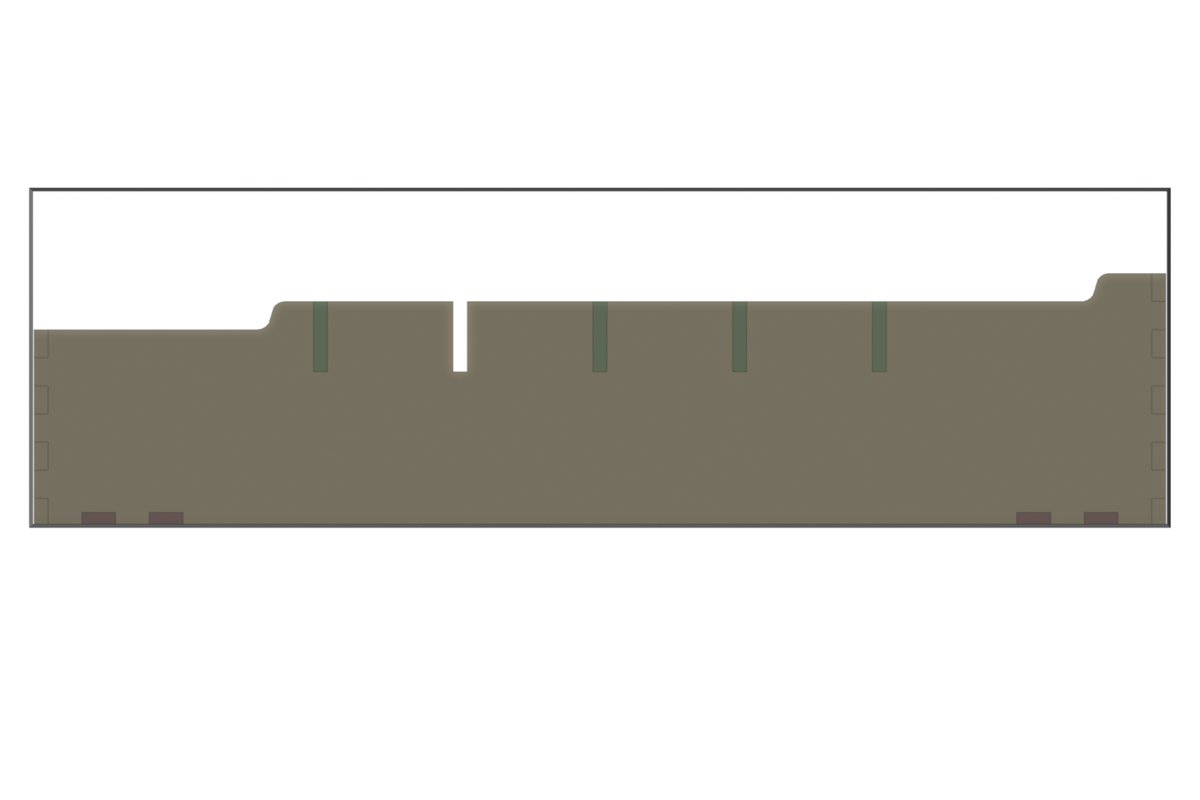
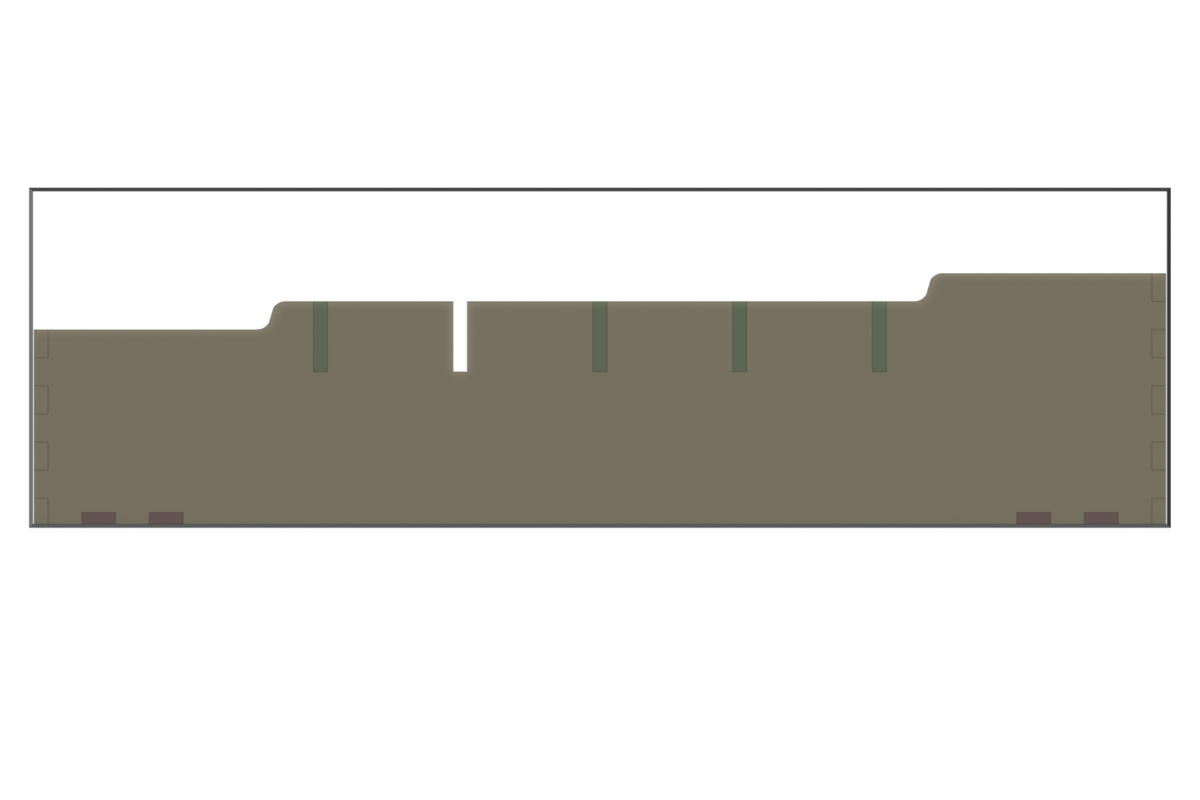
Drawer organizer: front raised bands run to just before the first slot
Plateaus are now derived from the grid: each raised or lowered band runs from
the corner to a step that finishes step_gap short of the nearest slot. Replaces
corner_plateau and back_step_gap with a single step_gap.

Claude-Session: https://claude.ai/code/session_01LZycd3S2pwbAJV8HQ6xUfH

Changed region(s): [[0.7708, 0.3438, 0.925, 0.375]]

diff --git a/projects/drawer-organizer/design.py b/projects/drawer-organizer/design.py
@@ -12,11 +12,12 @@ column dividers in between with the same joint.
 Four flat triangular gussets lie on the drawer floor in the box's corners, tabbed
 through the bottom edges of both walls they touch, to keep the glued box square.
 
-Tops: the front corners stand at full height over the outer inch, drop by an S-shaped
-shoulder to the interior level, and the walls run flat at that level. The back edge of
-the whole box sits lower: the back wall is flat at `back_level`, and the side walls
-and column dividers step down to it through the same shoulder inverted, just past
-the last row slot, so everything behind the last row position is at the back level. Dividers are otherwise flat at the interior level, so every ear is flush
+Tops: the front corners stand at full height from the corner to just before the first
+slot, drop by an S-shaped shoulder to the interior level, and the walls run flat at
+that level across the slotted region. The back edge of the whole box sits lower: the
+back wall is flat at `back_level`, and the side walls and column dividers step down to
+it through the same shoulder inverted, just past the last row slot, so everything
+behind the last row position is at the back level. Dividers are otherwise flat at the interior level, so every ear is flush
 with the edge it passes through. Slot floors sit a fixed engagement below the local
 top, so the back wall's slots are lower than the rest.
 
@@ -59,8 +60,7 @@ class OrganizerConfig:
     notch_depth: float | None = None  # how far a divider's ear engages a slot; default half the interior level
     corner_rise: float = 0.5        # how much higher the front corners stand than the interior level
     back_level: float | None = None  # height of the whole back edge; None for raised back corners like the front
-    back_step_gap: float = 0.5      # flat edge kept between the last row slot and the step down to the back level
-    corner_plateau: float = 1.0     # length of full-height edge at each corner before the shoulder
+    step_gap: float = 0.5           # flat edge kept between a step and the nearest slot
     corner_curve: str = "ogee"      # shoulder shape: 'ogee' (S of two quarter circles) or 'round' (one quarter circle)
     finger_width: float = 0.5       # target finger width at the corners
     edge_margin: float = 0.5        # solid material kept between a grid notch and a corner joint
@@ -123,21 +123,26 @@ class Design:
         self.divider_slot_depth = self.level - self.slot_floor
         self.bottom_notch_depth = self.slot_floor            # a divider's bottom notch reaches this high
         self.back_bottom_notch_depth = self.back_slot_floor  # at a column divider's back end
-        # Slots must miss the gussets and sit past the corner shoulder (which is
-        # measured from the wall's end, so take off the neighbouring wall's thickness).
+        # Slots must miss the gussets and leave room for a step plus its gap between
+        # the corner joint and the first slot.
         shoulder = max(cfg.corner_rise, abs(self.back_step))
-        clear = max(cfg.edge_margin, cfg.gusset_leg,
-                    cfg.corner_plateau + shoulder + cfg.edge_margin - t)
+        clear = max(cfg.edge_margin, cfg.gusset_leg, shoulder + cfg.step_gap)
         self.column_pitch = snap_pitch(self.width, cfg.column_pitch, t)
         self.row_pitch = snap_pitch(self.depth, cfg.row_pitch, t)
         self.column_grid = grid(self.width, self.column_pitch, t, clear)
         self.row_grid = grid(self.depth, self.row_pitch, t, clear)
         self.gusset_tab_spans = even_tab_spans(cfg.gusset_leg, cfg.gusset_tabs) if cfg.gusset_leg > 0 else []
-        # Length of the lowered band at the back of the side walls and column dividers:
-        # from just past the last row slot to the back of the box.
-        last_slot_end = max(self.row_grid.values()) + t / 2 if self.row_grid else 0.0
-        self.back_plateau = (self.depth - (last_slot_end + cfg.back_step_gap + abs(self.back_step))
-                             if cfg.back_level is not None else cfg.corner_plateau)
+        # Plateau lengths: each raised or lowered band runs from the wall's end to a
+        # step that finishes `step_gap` short of the nearest slot.
+        gap, rise = cfg.step_gap, cfg.corner_rise
+        col_first = min(self.column_grid.values()) - t / 2
+        col_last = max(self.column_grid.values()) + t / 2
+        row_first = min(self.row_grid.values()) - t / 2
+        row_last = max(self.row_grid.values()) + t / 2
+        self.front_wall_plateau = (col_first - gap - rise, self.width - col_last - gap - rise)
+        self.side_front_plateau = row_first - gap - rise
+        back_step = abs(self.back_step) if cfg.back_level is not None else rise
+        self.back_plateau = self.depth - row_last - gap - back_step
         self.finger_count = odd_finger_count(cfg.height, cfg.finger_width)
         self._validate()
         self.panels = self._build_panels()
@@ -165,20 +170,15 @@ class Design:
         cfg = self.cfg
         if not (0 <= cfg.corner_rise < self.height):
             raise ValueError("corner_rise must be between 0 and the wall height")
-        if cfg.corner_plateau < cfg.thickness:
-            raise ValueError("corner_plateau must cover at least the corner joint (one thickness)")
         if not (0 < self.slot_floor < self.level):
             raise ValueError("notch_depth must leave some wall below the slots")
         if cfg.back_level is not None and not (0 < self.back_slot_floor < self.back_level <= self.height):
             raise ValueError("back_level must be between the slot engagement and the wall height")
-        if cfg.back_level is not None and self.back_plateau < cfg.thickness:
-            raise ValueError("the step down to the back level would run into the back corner joint")
+        for plateau in (*self.front_wall_plateau, self.side_front_plateau, self.back_plateau):
+            if plateau < cfg.thickness:
+                raise ValueError("a step would run into a corner joint; increase edge_margin or reduce step_gap")
         if not self.column_grid or not self.row_grid:
             raise ValueError("grid pitch leaves no room for any notch")
-        shoulder_end = cfg.corner_plateau + max(cfg.corner_rise, abs(self.back_step))
-        for g, name in ((self.column_grid, "column"), (self.row_grid, "row")):
-            if min(g.values()) - cfg.thickness / 2 <= shoulder_end:
-                raise ValueError(f"the corner shoulder runs into the first {name} slot")
         if cfg.gusset_leg < 0 or (cfg.gusset_leg > 0 and cfg.gusset_tabs < 1):
             raise ValueError("gusset_leg must be 0 or positive with at least one tab")
         if cfg.gusset_leg > 0 and 2 * cfg.thickness + 2 * cfg.gusset_leg > min(self.width, self.depth):
@@ -207,24 +207,24 @@ class Design:
     # --- panels -------------------------------------------------------------
 
     def _top(self, length: float, start_step: float, end_step: float,
-             end_plateau: float | None = None) -> SteppedEnds | None:
-        """Top-edge profile with the given steps at each end, or None if both are zero."""
-        cfg = self.cfg
+             start_plateau: float, end_plateau: float) -> SteppedEnds | None:
+        """Top-edge profile with the given steps and plateaus, or None if both steps are zero."""
         if start_step == 0 and end_step == 0:
             return None
-        return SteppedEnds(length, self.level, start_step, end_step, cfg.corner_plateau,
-                           cfg.corner_curve, end_plateau=end_plateau)
+        return SteppedEnds(length, self.level, start_step, end_step, start_plateau,
+                           self.cfg.corner_curve, end_plateau=end_plateau)
 
     def _front_wall_top(self, length: float) -> SteppedEnds | None:
-        return self._top(length, self.cfg.corner_rise, self.cfg.corner_rise)
+        rise = self.cfg.corner_rise
+        return self._top(length, rise, rise, *self.front_wall_plateau)
 
     def _side_wall_top(self, length: float) -> SteppedEnds | None:
-        if self.cfg.back_level is None:
-            return self._top(length, self.cfg.corner_rise, self.cfg.corner_rise)
-        return self._top(length, self.cfg.corner_rise, self.back_step, end_plateau=self.back_plateau)
+        rise = self.cfg.corner_rise
+        back = rise if self.cfg.back_level is None else self.back_step
+        return self._top(length, rise, back, self.side_front_plateau, self.back_plateau)
 
     def _column_top(self, length: float) -> SteppedEnds | None:
-        return self._top(length, 0.0, self.back_step, end_plateau=self.back_plateau)
+        return self._top(length, 0.0, self.back_step, 0.0, self.back_plateau)
 
     def _build_panels(self) -> list[Panel]:
         cfg = self.cfg
@@ -329,10 +329,11 @@ class Design:
             f"a cell n steps wide is {fmt(self.column_pitch)}n - {fmt(cfg.thickness)}",
             f"Row grid:    {len(self.row_grid)} positions at {fmt(self.row_pitch)} in pitch "
             f"(y = {fmt(min(self.row_grid.values()))} .. {fmt(max(self.row_grid.values()))})",
-            f"Tops: interior level {fmt(self.level)} in; front corners {fmt(cfg.corner_rise)} in higher over the outer "
-            f"{fmt(cfg.corner_plateau)} in with a {cfg.corner_curve} shoulder"
+            f"Tops: interior level {fmt(self.level)} in; front corners {fmt(cfg.corner_rise)} in higher, "
+            f"stepping down ({cfg.corner_curve}) {fmt(cfg.step_gap)} in before the first slot "
+            f"(raised bands {fmt(self.front_wall_plateau[0])} in on the front wall, {fmt(self.side_front_plateau)} in on the sides)"
             + (f"; back edge at {fmt(self.back_level)} in over the last {fmt(self.back_plateau)} in, "
-               f"stepping down {fmt(cfg.back_step_gap)} in past the last row slot"
+               f"stepping down {fmt(cfg.step_gap)} in past the last row slot"
                if cfg.back_level is not None else "; back corners like the front"),
             f"Egg-crate slots: {fmt(self.engagement)} in of ear engagement everywhere; floors at "
             f"{fmt(self.slot_floor)} in (back wall {fmt(self.back_slot_floor)} in) above the drawer bottom",

diff --git a/projects/drawer-organizer/test_design.py b/projects/drawer-organizer/test_design.py
@@ -42,12 +42,16 @@ def test_tops_front_corners_flat_interior_dropped_back(design):
     walls = {p.name: p for p in design.panels if p.kind == "wall"}
     W, D = design.width, design.depth
     f = walls["wall_front"].outline.top_profile
-    for x in (0.0, 0.5, 1.0, W - 1.0, W - 0.5, W):
-        assert f(x) == H                                       # front corners full height
-    assert f(1.25) == pytest.approx(level + 0.25)              # middle of the S
-    assert f(1.1) > H - 0.05 and f(1.4) < level + 0.05         # eases out of both levels
-    for x in (2.0, W / 2, W - 2.0):
-        assert f(x) == level
+    col_first = min(design.column_grid.values()) - 0.125
+    plateau = col_first - 0.5 - 0.5                            # step finishes one gap before the first slot
+    assert design.front_wall_plateau == (pytest.approx(plateau), pytest.approx(plateau))
+    assert plateau > 2.0
+    for x in (0.0, 1.0, plateau, W - plateau, W - 1.0, W):
+        assert f(x) == H                                       # raised bands full height
+    assert f(plateau + 0.25) == pytest.approx(level + 0.25)    # middle of the S
+    assert f(plateau + 0.1) > H - 0.05 and f(plateau + 0.4) < level + 0.05
+    for x in (col_first - 0.5, col_first, W / 2, W - col_first):
+        assert f(x) == pytest.approx(level)                    # flat across the slotted region
     b = walls["wall_back"].outline.top_profile
     for x in (0.0, 1.0, W / 2, W - 1.0, W):
         assert b(x) == back                                    # back wall flat at the back level
@@ -55,10 +59,14 @@ def test_tops_front_corners_flat_interior_dropped_back(design):
     step_start = last_slot_end + 0.5                           # the step begins one gap past the last slot
     assert design.back_plateau == pytest.approx(D - step_start - 0.5)
     assert design.back_plateau > 3.5                           # the lowered band is most of the back quarter
+    row_first = min(design.row_grid.values()) - 0.125
+    front_plateau = row_first - 0.5 - 0.5
+    assert design.side_front_plateau == pytest.approx(front_plateau)
     for name in ("wall_left", "wall_right"):
         g = walls[name].outline.top_profile
-        assert g(0) == H and g(1.0) == H                       # front end raised
-        assert g(2.0) == level and g(D / 2) == level           # flat interior
+        assert g(0) == H and g(front_plateau) == H             # front band raised up to the step
+        assert g(front_plateau + 0.25) == pytest.approx(level + 0.25)
+        assert g(row_first - 0.5) == pytest.approx(level) and g(D / 2) == level   # flat interior
         assert g(last_slot_end) == level and g(step_start) == pytest.approx(level)
         assert g(step_start + 0.25) == pytest.approx(level - 0.25)   # inverted S, middle
         assert g(step_start + 0.1) > level - 0.05 and g(step_start + 0.4) < back + 0.05
@@ -118,11 +126,14 @@ def test_symmetric_box_when_back_level_is_none():
     assert by_name["column_1"].outline.top_profile is None
 
 
-def test_first_slot_clears_the_shoulder_for_any_plateau():
-    for plateau in (0.25, 1.0, 2.5, 4.0):
-        d = Design(OrganizerConfig(corner_plateau=plateau, gusset_leg=0, back_level=3.5))
-        for g in (d.column_grid, d.row_grid):
-            assert min(g.values()) - 0.125 > plateau + 0.5
+def test_steps_finish_one_gap_before_the_slots_for_any_gap():
+    for gap in (0.25, 0.5, 1.5):
+        d = Design(OrganizerConfig(step_gap=gap, gusset_leg=0, back_level=3.5, columns=[0]))
+        t = 0.125
+        assert d.front_wall_plateau[0] + 0.5 + gap == pytest.approx(min(d.column_grid.values()) - t)
+        assert d.side_front_plateau + 0.5 + gap == pytest.approx(min(d.row_grid.values()) - t)
+        assert d.depth - d.back_plateau - 0.5 - gap == pytest.approx(max(d.row_grid.values()) + t)
+        assert min(d.front_wall_plateau[0], d.side_front_plateau, d.back_plateau) >= 0.25
 
 
 def test_panel_sizes(design):
@@ -173,9 +184,10 @@ def test_gussets(design):
 def test_no_gussets_when_leg_is_zero():
     d = Design(OrganizerConfig(gusset_leg=0))
     assert not any(p.kind == "gusset" for p in d.panels)
-    assert len(d.column_grid) == 17   # the corner shoulders, not the gussets, now set the clearance
+    assert len(d.column_grid) == 19
     first = min(d.column_grid.values()) - 0.125
-    assert first >= 1.0 + 0.5 + 0.5    # plateau + shoulder + edge margin
+    assert first >= 0.25 + 0.5 + 0.5   # room for a corner joint, a step and a gap before the first slot
+    assert d.front_wall_plateau[0] >= 0.25
 
 
 def test_cells_add_up(design):

diff --git a/projects/drawer-organizer/config.py b/projects/drawer-organizer/config.py
@@ -21,10 +21,9 @@ CONFIG = OrganizerConfig(
     row_pitch=2.5,
     notch_depth=1.25,
     corner_rise=0.5,
-    corner_plateau=1.0,
     corner_curve="ogee",
     back_level=3.5,
-    back_step_gap=0.5,
+    step_gap=0.5,
     gusset_leg=3.0,
     gusset_tabs=2,
     # Column dividers at these grid positions (left to right): three equal columns of

diff --git a/projects/drawer-organizer/README.md b/projects/drawer-organizer/README.md
@@ -41,8 +41,9 @@ can change later.
   with the same joint. A row divider can span several columns; it then crosses the
   column dividers in between with a bottom notch at each crossing.
 - **Raised front corners, dropped back edge.** The front wall stands at full height
-  over the outer inch at both ends, then drops half an inch through an S-shaped
-  shoulder to the interior level, and runs flat at that level. The S is two quarter
+  from each corner to half an inch before the first slot, then drops half an inch
+  through an S-shaped shoulder to the interior level, and runs flat at that level
+  across the slotted region. The side walls do the same at their front ends. The S is two quarter
   circles of quarter-inch radius, convex then concave, so it leaves one level and
   arrives on the other smoothly. The back edge of the whole box sits half an inch
   below the interior level: the back wall is flat at that height for its full
@@ -75,8 +76,7 @@ All in `config.py`, all in inches.
 | `notch_depth` | 1.25 | how far a divider's ear engages its slot, measured from the interior level |
 | `corner_rise` | 0.5 | how much higher the front corners stand than the interior level; 0 for straight tops |
 | `back_level` | 3.5 | height of the whole back edge; leave unset for raised back corners like the front |
-| `back_step_gap` | 0.5 | flat edge kept between the last row slot and the step down to the back level |
-| `corner_plateau` | 1.0 | length of full-height edge at each corner before the shoulder |
+| `step_gap` | 0.5 | flat edge kept between any step and the nearest slot; the raised and lowered bands run from the corners to there |
 | `corner_curve` | `ogee` | shoulder shape: `ogee` (S of two quarter circles, radius = rise/2) or `round` (one quarter circle, radius = rise, meeting the flat vertically) |
 | `finger_width` | 0.5 | target; the real width makes an odd finger count |
 | `edge_margin` | 0.5 | solid wood kept between the outermost notch and a corner joint |
@@ -155,9 +155,12 @@ stock thickness get applied at that stage; the geometry here is nominal.
    side. The box is glued, so they earn their keep.
 5. **Stock thickness.** Nominal 1/4 in plywood is usually 0.2 to 0.23 in. The design
    scales with `thickness`, so measure before cutting.
-6. **Dropped back edge.** The back of the box sits at 3.5 in, an inch below the front
-   corners, with the side walls and column dividers stepping down to meet it just past
-   the last row slot, so the lowered band runs about 4 in deep. The back wall's slot
+6. **Bands set by the slots.** The raised front bands and the lowered back band each
+   run from the corner to a step that finishes half an inch short of the nearest slot,
+   so the flat interior level spans exactly the slotted region. On the front wall the
+   raised bands are about 3.4 in long, on the side walls about 4 in, and the lowered
+   back band about 4 in. The back of the box sits at 3.5 in, an inch below the front
+   corners. The back wall's slot
    floors drop by the same half inch so the column dividers' back ears keep the full
    1.25 in of engagement.
 7. **Raised corners instead of waves.** An earlier version gave every panel a random
